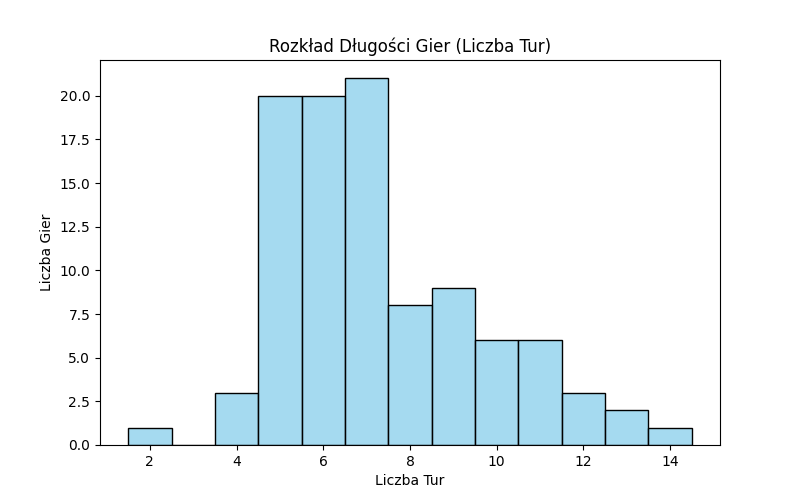
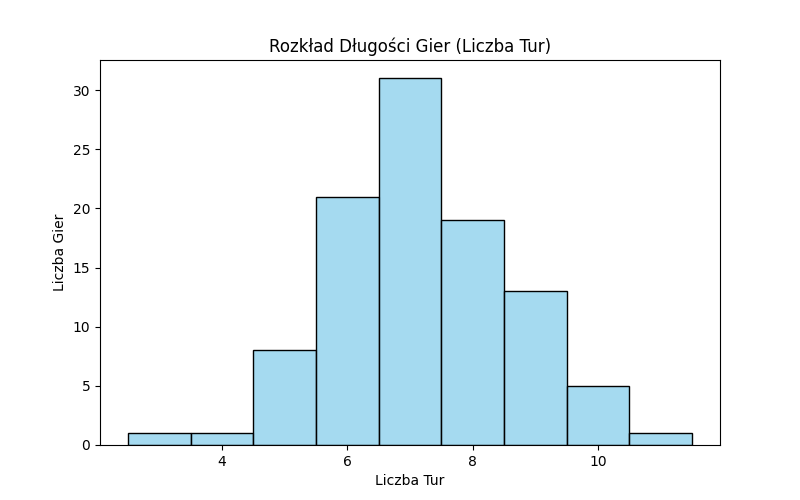
Recommended upgrade for the system

diff --git a/utils/analyze_replays.py b/utils/analyze_replays.py
@@ -183,7 +183,7 @@ class ReplayAnalyzer:
 # Przykładowe użycie na końcu pliku:
 if __name__ == "__main__":
 
-    analyzer = ReplayAnalyzer(replays_folder="../stats/test-for-stats/replays")
+    analyzer = ReplayAnalyzer(replays_folder="../stats/7154/replays")
 
     if len(analyzer.replays_data) > 0:
         analyzer.get_spymaster_stats()

diff --git a/utils/advanced_analytics.py b/utils/advanced_analytics.py
@@ -157,5 +157,5 @@ class AdvancedReplayAnalyzer:
 
 if __name__ == "__main__":
 
-    analyzer = AdvancedReplayAnalyzer("../stats/test/replays")
+    analyzer = AdvancedReplayAnalyzer("../stats/7154/replays")
     analyzer.run_advanced_analytics()
